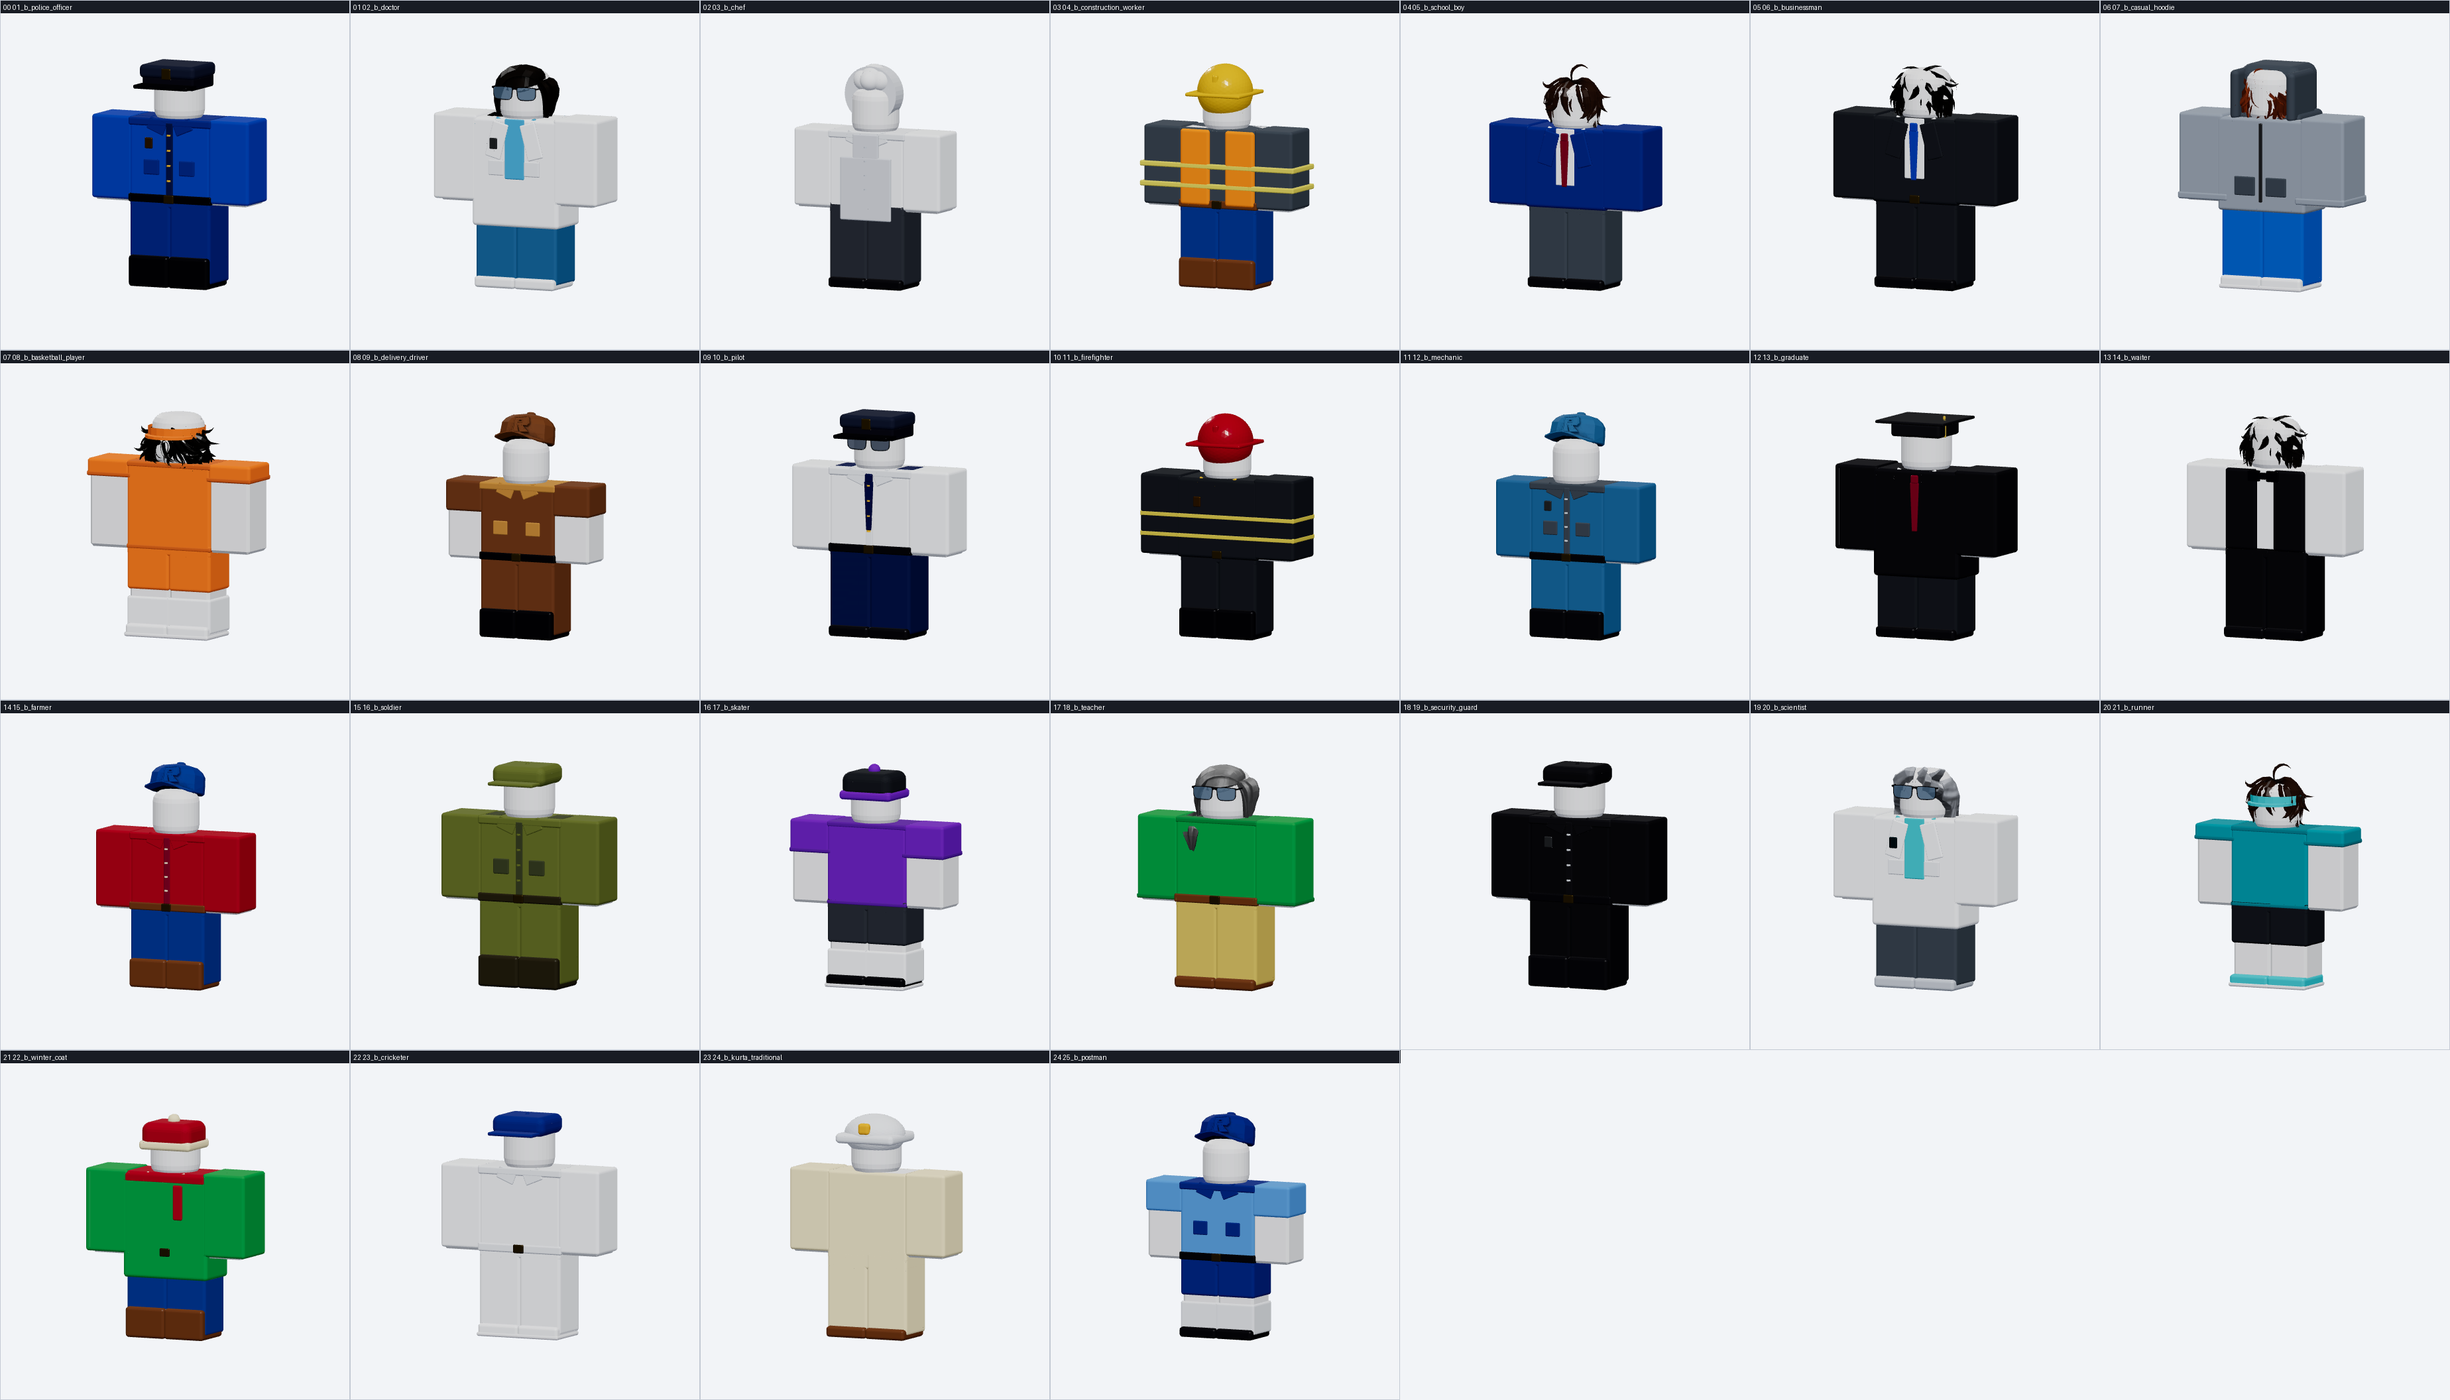
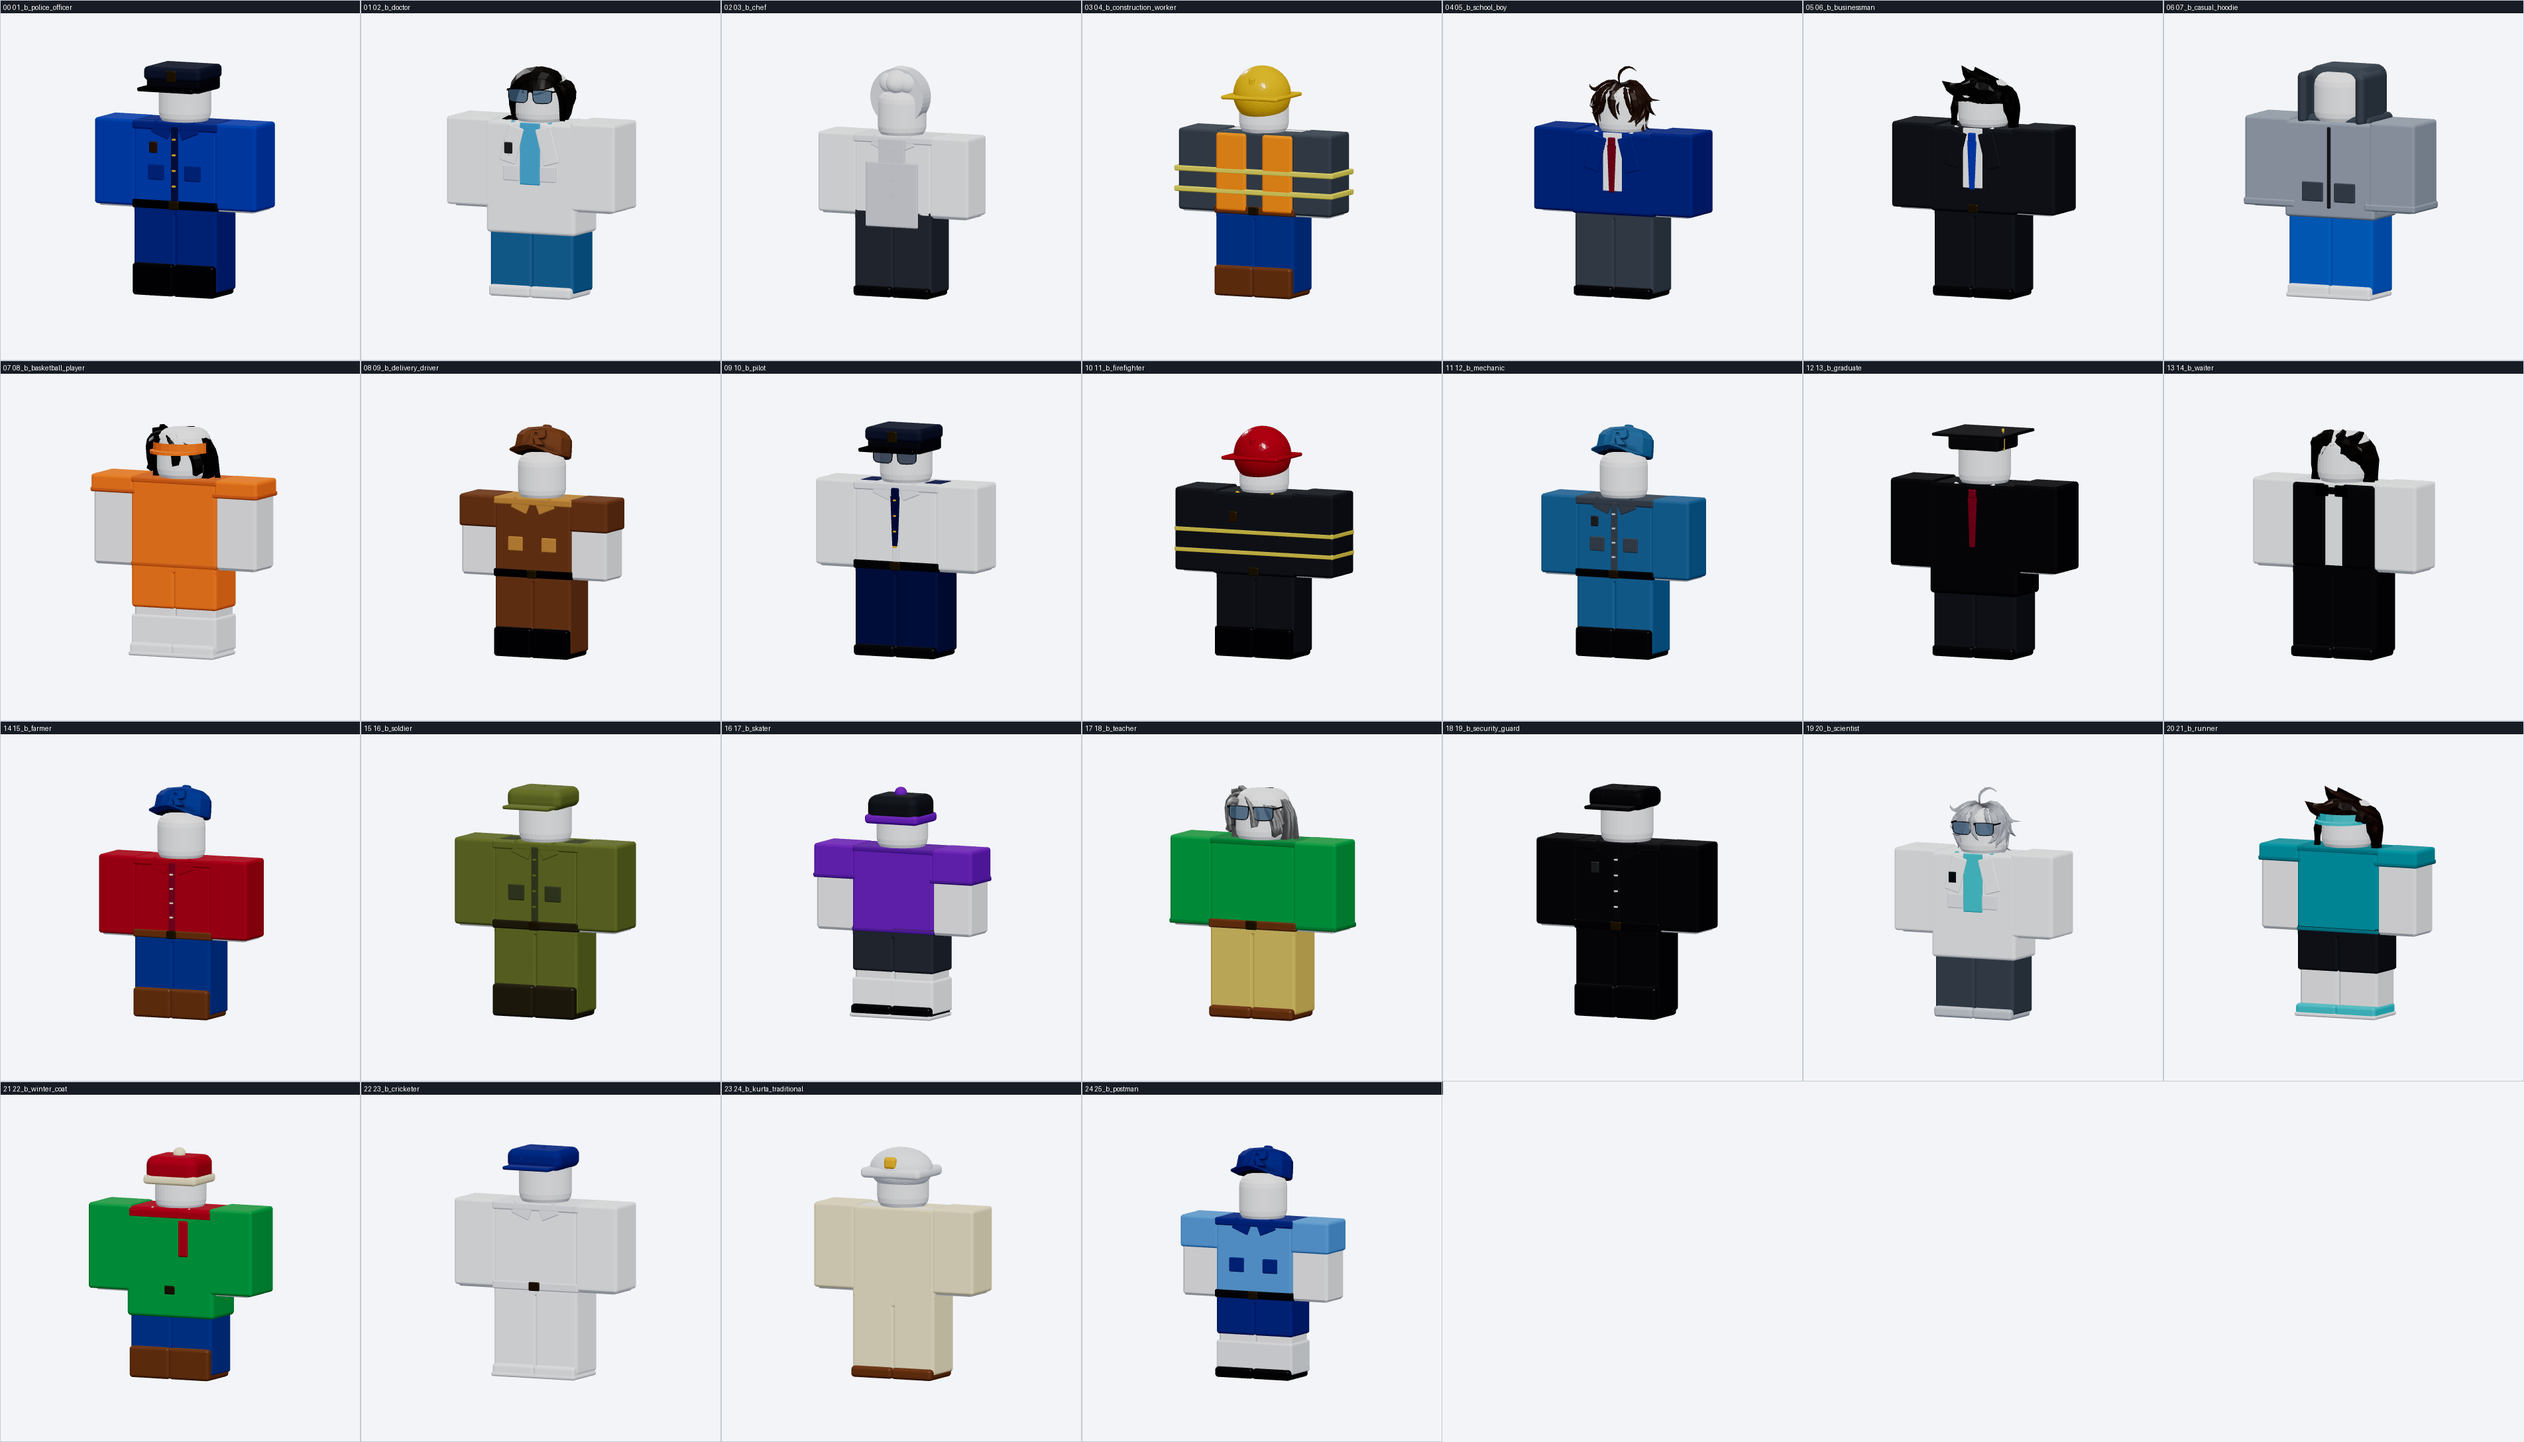
Update README for the corrected facing and fitting rules
Documents that the model faces +Z and how that is verified, the per-pack wig
rotation, the PCA-based glasses orientation, and the hat-replaces-hair rule.

diff --git a/README.md b/README.md
@@ -41,7 +41,12 @@ hard-codes as anchors:
 | arm   | (±1.5 from centre)     | 1.00 x 2.00 x 1.00 |
 | leg   | (±0.5 from centre)     | 1.00 x 2.00 x 1.00 |
 
-The avatar faces **-Z**, up is **+Y**, its right hand is **+X**, feet at y = 0.
+The avatar faces **+Z**, up is **+Y**, feet at y = 0.
+
+Getting that direction wrong puts every collar, tie, pocket, cap peak and shoe
+toe on the avatar's back, so it is verified rather than assumed: rendering the
+supplied reference avatar and the supplied cap from both sides shows the face,
+the hoodie zip, the cap peak and the cap logo all on +Z.
 
 ## Fitting the supplied accessories
 
@@ -56,8 +61,17 @@ re-anchored from its own geometry (`scripts/accessories.py`):
   hair always falls backwards instead of through it.
 - **Caps** — measured by the crown band and parked a fixed distance below the
   top of the head, so they grip rather than hover.
-- **Glasses** — the widest horizontal axis is detected (and rotated into place if
-  the model was authored sideways), then seated on the front face at eye level.
+- **Caps** — the supplied cap is authored facing +Z like the rig, so it needs no
+  turn; the wig packs are authored facing -Z and each gets a half turn.
+- **Glasses** — the supplied pair is modelled diagonally, so no axis test finds
+  the lens direction. PCA on the lens plates gives it directly: their widest
+  spread is lens-to-lens, their thinnest is the viewing normal. Seating is
+  measured from the lens plane, since the group's extent is dominated by the
+  temples.
+
+Headwear that encloses the skull replaces the hair rather than layering over it
+— a wig squeezed under a cap bulges out and swallows the face, which is also how
+the reference avatars wear hats.
 
 Textured accessories are re-tinted through their own luminance
 (`accessories.recolor`), so strand detail survives an arbitrary colour change
